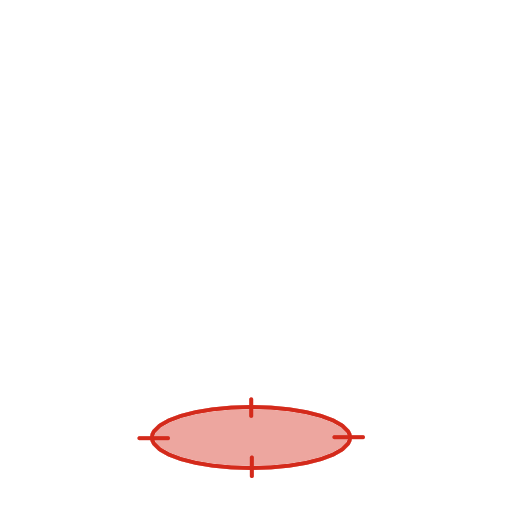
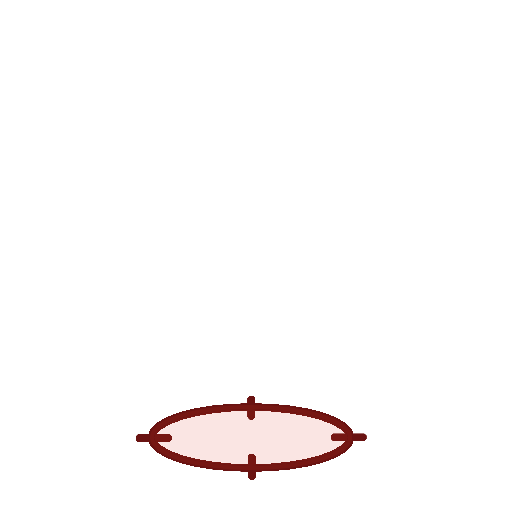
Add grenade and crosshair asset updates

Changed region(s): [[0.25, 0.75, 0.7188, 0.9375]]

diff --git a/state_of_game.md b/state_of_game.md
@@ -106,6 +106,7 @@ Last updated: 2026-04-27
 - Boss grenade scene/script added
 - Boss grenades use scripted arc movement and explode at target positions
 - Boss grenade warning uses `art/props/crosshair.png`
+- Boss grenade projectile now uses dedicated grenade art: `art/props/grenade.png`
 - Boss grenade explosion now uses a separate animation that plays only when the grenade reaches the floor/target
 - Grenade warning time and grenade air time are now separate boss export variables
 
@@ -205,6 +206,7 @@ Last updated: 2026-04-27
 - Added boss projectiles: `scenes/projectiles/boss_bullet.tscn`, `scripts/projectiles/boss_bullet.gd`, `scenes/projectiles/boss_grenade.tscn`, `scripts/projectiles/boss_grenade.gd`
 - Added grenade warning FX: `scenes/fx/grenade_warning.tscn`
 - Added grenade warning crosshair asset: `art/props/crosshair.png`
+- Added grenade projectile art: `art/props/grenade.png`
 - Added grenade explosion animation frames: `art/enemies/animations/Boss/grenade/explosion/`
 - Added boss jump and stomp animation frames: `art/enemies/animations/Boss/jump/`, `art/enemies/animations/Boss/stomp/`
 - Added boss fight level script for camera shake: `scripts/levels/boss_fight_level.gd`
